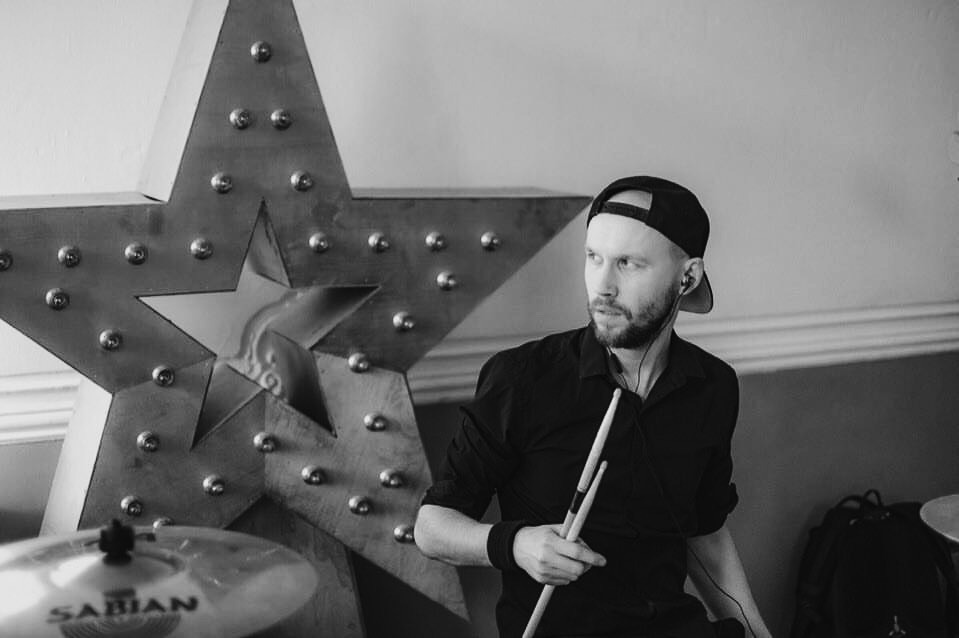
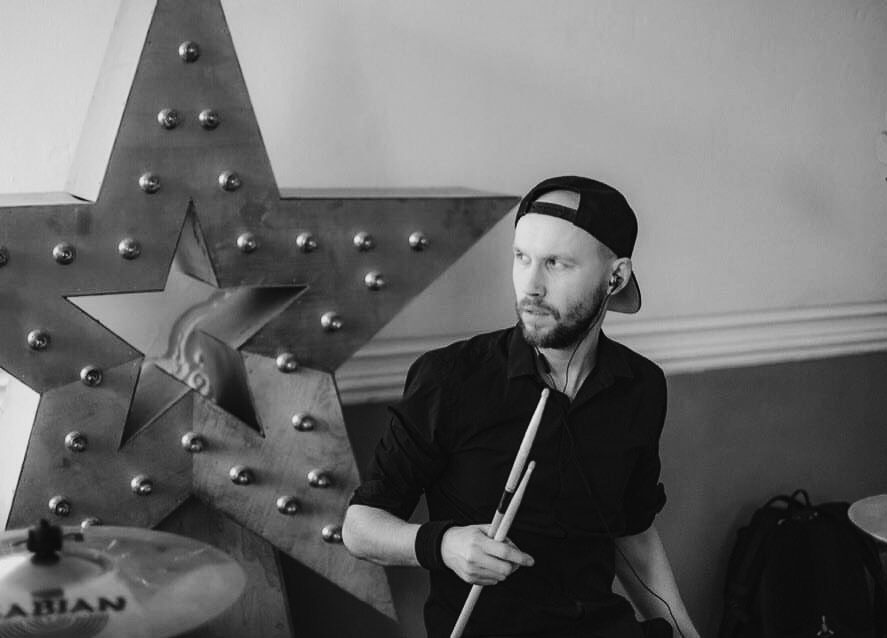
растянутые картинки

diff --git a/css/style.min.css b/css/style.min.css
@@ -1,1 +1,1 @@
-@font-face{font-family:'lato_regular';src:url(../fonts/Lato-Regular.eot);src:url(../fonts/Lato-Regular.eot?iefix) format('eot'),url(../fonts/Lato-Regular.woff) format('woff'),url(../fonts/Lato-Regular.ttf) format('truetype'),url(../fonts/Lato-Regular.svg#webfont) format('svg')}@font-face{font-family:'lato_light';src:url(../fonts/Lato-Light.eot);src:url(../fonts/Lato-Light.eot?iefix) format('eot'),url(../fonts/Lato-Light.woff) format('woff'),url(../fonts/Lato-Light.ttf) format('truetype'),url(../fonts/Lato-Light.svg#webfont) format('svg')}@font-face{font-family:'lato_bold';src:url(../fonts/Lato-Bold.eot);src:url(../fonts/Lato-Bold.eot?iefix) format('eot'),url(../fonts/Lato-Bold.woff) format('woff'),url(../fonts/Lato-Bold.ttf) format('truetype'),url(../fonts/Lato-Bold.svg#webfont) format('svg')}@font-face{font-family:'lato_semi';src:url(../fonts/Lato-Semibold.eot);src:url(../fonts/Lato-Semibold.eot?iefix) format('eot'),url(../fonts/Lato-Semibold.woff) format('woff'),url(../fonts/Lato-Semibold.ttf) format('truetype'),url(../fonts/Lato-Semibold.svg#webfont) format('svg')}body{font-family:'lato_regular';padding:0;background:#f6f6f6;font-size:18px}body.no-scroll{width:100%;height:100%;position:fixed;overflow:hidden}@media (max-width:767px){body{font-size:15px}}body,p,ul{margin:0}p{line-height:35px}@media (max-width:767px){p{line-height:30px}}@media (max-width:450px){p{line-height:25px}}a{text-decoration:none;color:inherit}ul{list-style:none;padding:0}input{-webkit-box-sizing:border-box;box-sizing:border-box}h2{font-family:'lato_bold';margin-top:0;margin-bottom:50px;font-size:80px}@media (max-width:1200px){h2{font-size:70px;margin-bottom:40px}}@media (max-width:1024px){h2{font-size:60px;margin-bottom:30px}}@media (max-width:767px){h2{font-size:50px;margin-bottom:20px}}@media (max-width:450px){h2{font-size:35px;margin-bottom:10px}}h3{font-size:25px;margin-bottom:10px;color:#fff}.main-wrapper{margin:0 80px;overflow:hidden;position:relative}@media (max-width:450px){.main-wrapper{margin:0 50px}}@media (max-width:320px){.main-wrapper{margin:0}}.logo-wrapper{width:100%;height:100vh;top:0;left:0;display:-webkit-box;display:-ms-flexbox;display:flex;-webkit-box-align:center;-ms-flex-align:center;align-items:center;-ms-flex-line-pack:center;align-content:center;-webkit-box-pack:center;-ms-flex-pack:center;justify-content:center;overflow:auto;position:absolute}.logo{margin:0 auto;height:auto;text-align:center;width:50%}@media (max-width:1024px){.logo{width:65%}}@media (max-width:450px){.logo{width:320px}}.logo .logo-descr{font-family:'lato_light';color:#f39305;font-size:30px;letter-spacing:10px;text-transform:uppercase}@media (max-width:1024px){.logo .logo-descr{font-size:30px;margin:0;letter-spacing:6px}}@media (max-width:767px){.logo .logo-descr{font-size:20px;letter-spacing:5px}}@media (max-width:450px){.logo .logo-descr{font-size:13px;letter-spacing:3px}}.navigation{z-index:10;position:fixed;top:0;right:auto;left:0;bottom:0;height:100%;width:80px;background:#101010}@media (max-width:450px){.navigation{width:50px}}@media (max-width:320px){.navigation{width:250px;bottom:auto;height:auto}}.menu-background,.navigation .navigation-list{position:absolute;left:0;right:0;bottom:50px}@media (max-width:320px){.navigation .navigation-list{bottom:auto;display:none}}.navigation .navigation-list ul{display:-webkit-box;display:-ms-flexbox;display:flex;-webkit-box-orient:horizontal;-webkit-box-direction:reverse;-ms-flex-direction:row-reverse;flex-direction:row-reverse;-ms-flex-wrap:nowrap;flex-wrap:nowrap;background:#101010;z-index:1;line-height:30px;list-style:none;padding-left:20px;position:absolute;bottom:0;left:100%;text-transform:uppercase;-webkit-transform-origin:bottom left;transform-origin:bottom left;-webkit-transform:rotate(-90deg);transform:rotate(-90deg)}@media (max-width:1024px){.navigation .navigation-list ul{padding-left:10px}}@media (max-width:320px){.navigation .navigation-list ul{-webkit-box-orient:vertical;-webkit-box-direction:normal;-ms-flex-direction:column;flex-direction:column;-ms-flex-wrap:wrap;flex-wrap:wrap;-webkit-box-align:center;-ms-flex-align:center;align-items:center;position:static;-webkit-transform:none;transform:none;padding-top:40px}}.navigation .navigation-list ul li,.social-navigation nav ul li{display:inline-block;vertical-align:middle;-webkit-box-flex:0;-ms-flex:0 0 auto;flex:0 0 auto;white-space:nowrap}.navigation .navigation-list ul li a{display:block;color:#fff;font-size:14px;letter-spacing:.1em;overflow:hidden;padding:25px 20px;position:relative;-webkit-transition:.3s ease-in-out;transition:.3s ease-in-out}@media (max-width:1024px){.navigation .navigation-list ul li a{padding:25px 10px}}@media (max-width:450px){.navigation .navigation-list ul li a{padding:10px 7px;font-size:11px}}@media (max-width:320px){.navigation .navigation-list ul li a{font-size:15px}}.navigation .navigation-list ul li a:after{content:"";display:block;position:absolute;height:2px;background:#101010;right:0;left:0;top:auto;bottom:0;width:50px;margin:auto;-webkit-transition:.3s ease-in-out;transition:.3s ease-in-out}.navigation .navigation-list ul li a:hover:after,.social-navigation nav ul li a:hover:after{background:#fff}.navigation .hand{top:0;left:0}@media (max-width:320px){.navigation .hand{display:none}}.menu-background{display:none;top:0;bottom:0;background:rgba(0,0,0,.5);z-index:1}.burger-icon{display:none}@media (max-width:320px){.burger-icon{display:block;position:absolute;top:20px;left:20px;width:50px;height:50px;z-index:10}}.burger-icon div{width:100%;height:2px;background:#f39305;position:absolute}.burger-icon div:nth-child(2){top:12px}.burger-icon div:nth-child(4){top:24px}.burger-icon.open{z-index:11;left:260px}.burger-icon.open div:nth-child(1),.burger-icon.open div:nth-child(4){top:18px;width:0;left:50%}.burger-icon.open div:nth-child(2){-webkit-transform:rotate(45deg);transform:rotate(45deg);top:10px}.burger-icon.open div:nth-child(3){-webkit-transform:rotate(-45deg);transform:rotate(-45deg);top:10px}.social-navigation{z-index:10;position:fixed;top:0;right:0;left:auto;bottom:0;height:100%;width:80px;background:#101010}@media (max-width:450px){.social-navigation{width:50px}}@media (max-width:320px){.social-navigation{top:290px;width:250px;left:0;bottom:0;height:auto;display:none;-webkit-box-pack:center;-ms-flex-pack:center;justify-content:center;-webkit-box-align:end;-ms-flex-align:end;align-items:flex-end}}.social-navigation nav{position:absolute;left:0;right:0;bottom:45px}@media (max-width:450px){.social-navigation nav{bottom:20px}}@media (max-width:320px){.social-navigation nav{position:static;padding:40px 0}}.hand,.social-navigation nav ul{display:-webkit-box;display:-ms-flexbox;display:flex}.social-navigation nav ul{background:#101010;z-index:1;-ms-flex-wrap:nowrap;flex-wrap:nowrap;line-height:30px;list-style:none;padding-left:20px;bottom:0;left:100%;text-transform:uppercase;-webkit-transform-origin:bottom left;transform-origin:bottom left;-webkit-transform:rotate(-90deg);transform:rotate(-90deg);-webkit-box-orient:horizontal;-webkit-box-direction:reverse;-ms-flex-direction:row-reverse;flex-direction:row-reverse;position:absolute}@media (max-width:1024px){.social-navigation nav ul{padding-left:10px}}@media (max-width:320px){.social-navigation nav ul{position:static;bottom:auto;-webkit-transform:none;transform:none;-webkit-box-orient:horizontal;-webkit-box-direction:normal;-ms-flex-direction:row;flex-direction:row;-webkit-box-pack:center;-ms-flex-pack:center;justify-content:center}}.social-navigation nav ul li a{display:block;color:#fff;font-size:14px;letter-spacing:.1em;overflow:hidden;padding:25px 20px;position:relative;-webkit-transition:font-weight 300ms ease-in-out;transition:font-weight 300ms ease-in-out}@media (max-width:1024px){.social-navigation nav ul li a{padding:25px 10px}}@media (max-width:450px){.social-navigation nav ul li a{padding:10px 8px;font-size:11px}}@media (max-width:320px){.social-navigation nav ul li a{padding:0;width:30px;height:30px}}.social-navigation nav ul li a:after{content:"";display:block;position:absolute;height:2px;background:#101010;right:0;left:0;top:0;bottom:auto;width:50px;margin:auto;-webkit-transition:.3s ease-in-out;transition:.3s ease-in-out}@media (max-width:320px){.social-navigation nav ul li a:after{display:none}}@media (max-width:320px){.social-navigation nav ul li .social-icon{background-size:100%;background-repeat:no-repeat;margin-right:20px}.social-navigation nav ul li .vk{background-image:url(../img/vk-social-logotype.svg)}.social-navigation nav ul li .instagram{background-image:url(../img/instagram-logo.svg)}.social-navigation nav ul li .youtube{background-image:url(../img/youtube.svg)}.social-navigation nav ul li .facebook{background-image:url(../img/facebook-logo-button.svg);margin-right:0}.social-navigation nav ul li span{display:none}}.hand{margin-top:30px;position:relative;-webkit-box-orient:vertical;-webkit-box-direction:normal;-ms-flex-direction:column;flex-direction:column;-webkit-box-align:center;-ms-flex-align:center;align-items:center;color:#f39305}@media (max-width:450px){.hand{top:0;left:0;margin-top:10px}}@media (max-width:320px){.hand{display:none}}.hand::before{content:"";display:block;width:20px;height:20px;margin-bottom:10px;background:url(../img/drumsticks.svg);background-size:100%}.decorative-line{position:absolute;left:40px;top:100px;height:450px;width:1px;background:#fff}@media (max-width:450px){.decorative-line{left:25px;top:65px;height:300px}}@media (max-width:320px){.decorative-line{display:none}}.monkey{position:absolute;width:40px;height:40px;background:url(../img/gorilla-gray.svg);background-size:100%;left:25px;bottom:10px}@media (max-width:450px){.monkey{left:10px}}.aboutme{display:-webkit-box;display:-ms-flexbox;display:flex;padding:150px;-webkit-box-align:center;-ms-flex-align:center;align-items:center}@media (max-width:1200px){.aboutme{-webkit-box-orient:vertical;-webkit-box-direction:normal;-ms-flex-direction:column;flex-direction:column}}@media (max-width:767px){.aboutme{padding:50px}}@media (max-width:450px){.aboutme{padding:60px 20px}}.aboutme .photo-part{margin-right:100px;width:50%}@media (max-width:1200px){.aboutme .photo-part{margin-bottom:50px;margin-right:0;width:auto}}@media (max-width:450px){.aboutme .photo-part{margin-bottom:20px}}.aboutme .photo-part img,.slider-item img{width:100%}.aboutme .text-part{width:50%}@media (max-width:1200px){.aboutme .text-part{width:auto}}.training{background:#fff;display:-webkit-box;display:-ms-flexbox;display:flex;padding:150px;-webkit-box-pack:center;-ms-flex-pack:center;justify-content:center}@media (max-width:767px){.training{padding:50px}}@media (max-width:450px){.training{padding:60px 20px}}.training h2,.training ul li{text-align:center}@media (max-width:450px){.training h2{text-align:left}}.training ul{margin-top:60px;-ms-flex-wrap:wrap;flex-wrap:wrap}@media (max-width:450px){.training ul{margin-top:20px}}.training ul li{width:33.333%;margin-bottom:40px}@media (max-width:767px){.training ul li{width:50%}}.big-background-container{overflow:hidden;z-index:-100;position:relative;height:100vh;width:100vw}.big-background-container video{position:absolute;top:0;left:50%;-webkit-transform:translate(-50%);transform:translate(-50%)}.gallery,.gallery-link,.training ul{display:-webkit-box;display:-ms-flexbox;display:flex}.gallery{-ms-flex-wrap:wrap;flex-wrap:wrap}.gallery-link{width:33.33%;height:auto;overflow:hidden}@media (max-width:767px){.gallery-link{width:50%}}@media (max-width:450px){.gallery-link{width:auto}}.gallery a img{width:100%;height:auto}.video-slider{height:100vh;margin-bottom:30px}.slider-item{display:inline-block}.contacts{display:-webkit-box;display:-ms-flexbox;display:flex;padding:150px}@media (max-width:1200px){.contacts{-webkit-box-orient:vertical;-webkit-box-direction:normal;-ms-flex-direction:column;flex-direction:column}}@media (max-width:767px){.contacts{padding:50px}}@media (max-width:450px){.contacts{padding:60px 20px}}.contact-info{margin-bottom:70px}@media (min-width:1024px){.contact-info{margin-bottom:0;margin-right:100px}}@media (min-width:450px){.contact-info{margin-bottom:20px}}.contact-form{width:100%}.contact-info span{font-family:'lato_bold'}.contact-form input{font-size:18px;color:#101010;font-family:'lato_regular';display:block;height:60px;margin-bottom:40px;border:0;background:#f6f6f6;border-bottom:2px solid #101010;width:100%}@media (max-width:450px){.contact-form input{margin-bottom:20px;font-size:15px;height:40px}}.contact-form input:nth-child(3){margin-bottom:90px}@media (max-width:450px){.contact-form input:nth-child(3){margin-bottom:50px}}::-webkit-input-placeholder{opacity:.4;font-size:18px;color:#101010;font-family:'lato_regular'}@media (max-width:450px){::-webkit-input-placeholder{font-size:15px}}::-moz-placeholder{opacity:.4;font-size:18px;color:#101010;font-family:'lato_regular'}@media (max-width:450px){::-moz-placeholder{font-size:15px}}:-ms-input-placeholder{opacity:.4;font-size:18px;color:#101010;font-family:'lato_regular'}@media (max-width:450px){:-ms-input-placeholder{font-size:15px}}:-moz-placeholder{opacity:.4;font-size:18px;color:#101010;font-family:'lato_regular'}@media (max-width:450px){:-moz-placeholder{font-size:15px}}.button,.button:hover{-webkit-transition:.3s;transition:.3s}.button{font-family:'lato_regular';cursor:pointer;font-size:24px;display:block;width:100%;background:#101010;border:2px solid #101010;padding:20px 0;color:#fff}@media (max-width:450px){.button{padding:10px 0;font-size:18px}}.button:hover{background:0 0;color:#101010}.video{display:grid;grid-template-areas:"a b c" "a d d";grid-template-rows:300px 1fr 70px;grid-auto-columns:20% 1fr 15%;grid-gap:10px;height:100vh;margin:0;background:#fff}@media (max-width:450px){.video{display:block;height:auto}}@media (max-width:767px){.video{grid-template-areas:"a b" "c d"}}.video-item{background-size:cover;background-position:center;background-repeat:no-repeat;display:-webkit-box;display:-ms-flexbox;display:flex;-webkit-box-pack:center;-ms-flex-pack:center;justify-content:center}.video-button{font-family:'lato_semi';display:block;padding:10px 20px;color:#f39305;border:1px solid #f39305;position:relative}.video-button:before,.video-button:hover{-webkit-transition-timing-function:linear;transition-timing-function:linear;-webkit-transition-duration:.2s;transition-duration:.2s}.video-button:hover{color:#fff;background-color:#f39305;border-color:#f39305;-webkit-box-shadow:7px 7px rgba(243,147,5,.5);box-shadow:7px 7px rgba(243,147,5,.5)}.video-button:before{content:"";position:absolute;top:0;left:0;width:100%;height:100%;-webkit-transform:translate(0,0);transform:translate(0,0);border:1px solid #f39305;opacity:0}.video-button:hover:before{opacity:1;-webkit-transform:translate(-7px,-7px);transform:translate(-7px,-7px)}.video-item1{grid-area:a;background-image:url(../img/1.jpg)}.video-item2{grid-area:b;background-image:url(../img/2.jpg)}.video-item3{grid-area:c;background-image:url(../img/3.jpg)}.video-item4{grid-area:d;background-image:url(../img/4.jpg)}.gallery-popup,.video-content{-webkit-box-align:center;-ms-flex-align:center;align-items:center;-webkit-box-pack:center;-ms-flex-pack:center;justify-content:center}.video-content{display:-webkit-box;display:-ms-flexbox;display:flex;-webkit-box-orient:vertical;-webkit-box-direction:normal;-ms-flex-direction:column;flex-direction:column;text-align:center;padding:10px}.video-content span{color:#fff;margin-bottom:20px}@media (max-width:450px){.video-content span{padding:20px}}.gallery-popup{display:none;vertical-align:middle;position:fixed;top:0;left:0;right:0;bottom:0;background-color:rgba(1,1,1,.8);z-index:100}.close-gallery{height:50px;width:50px;position:absolute;top:50px;right:50px;background:0 0;border:0;cursor:pointer}.close-gallery:after,.close-gallery:before{-webkit-transform:rotate(-45deg);transform:rotate(-45deg);content:'';position:absolute;top:50%;left:50%;margin-top:-5px;margin-left:-25px;display:block;height:5px;width:50px;background-color:#fff;-webkit-transition:all .25s ease-out;transition:all .25s ease-out}.close-gallery:after{-webkit-transform:rotate(-135deg);transform:rotate(-135deg)}.close-gallery:hover:after,.close-gallery:hover:before{-webkit-transform:rotate(0deg);transform:rotate(0deg)}
+@font-face{font-family:'lato_regular';src:url(../fonts/Lato-Regular.eot);src:url(../fonts/Lato-Regular.eot?iefix) format('eot'),url(../fonts/Lato-Regular.woff) format('woff'),url(../fonts/Lato-Regular.ttf) format('truetype'),url(../fonts/Lato-Regular.svg#webfont) format('svg')}@font-face{font-family:'lato_light';src:url(../fonts/Lato-Light.eot);src:url(../fonts/Lato-Light.eot?iefix) format('eot'),url(../fonts/Lato-Light.woff) format('woff'),url(../fonts/Lato-Light.ttf) format('truetype'),url(../fonts/Lato-Light.svg#webfont) format('svg')}@font-face{font-family:'lato_bold';src:url(../fonts/Lato-Bold.eot);src:url(../fonts/Lato-Bold.eot?iefix) format('eot'),url(../fonts/Lato-Bold.woff) format('woff'),url(../fonts/Lato-Bold.ttf) format('truetype'),url(../fonts/Lato-Bold.svg#webfont) format('svg')}@font-face{font-family:'lato_semi';src:url(../fonts/Lato-Semibold.eot);src:url(../fonts/Lato-Semibold.eot?iefix) format('eot'),url(../fonts/Lato-Semibold.woff) format('woff'),url(../fonts/Lato-Semibold.ttf) format('truetype'),url(../fonts/Lato-Semibold.svg#webfont) format('svg')}body{font-family:'lato_regular';padding:0;background:#f6f6f6;font-size:18px}body.no-scroll{width:100%;height:100%;position:fixed;overflow:hidden}@media (max-width:767px){body{font-size:15px}}body,p,ul{margin:0}p{line-height:35px}@media (max-width:767px){p{line-height:30px}}@media (max-width:450px){p{line-height:25px}}a{text-decoration:none;color:inherit}ul{list-style:none;padding:0}input{-webkit-box-sizing:border-box;box-sizing:border-box}h2{font-family:'lato_bold';margin-top:0;margin-bottom:50px;font-size:80px}@media (max-width:1200px){h2{font-size:70px;margin-bottom:40px}}@media (max-width:1024px){h2{font-size:60px;margin-bottom:30px}}@media (max-width:767px){h2{font-size:50px;margin-bottom:20px}}@media (max-width:450px){h2{font-size:35px;margin-bottom:10px}}h3{font-size:25px;margin-bottom:10px;color:#fff}.main-wrapper{margin:0 80px;overflow:hidden;position:relative}@media (max-width:450px){.main-wrapper{margin:0 50px}}@media (max-width:320px){.main-wrapper{margin:0}}.logo-wrapper{width:100%;height:100vh;top:0;left:0;display:-webkit-box;display:-ms-flexbox;display:flex;-webkit-box-align:center;-ms-flex-align:center;align-items:center;-ms-flex-line-pack:center;align-content:center;-webkit-box-pack:center;-ms-flex-pack:center;justify-content:center;overflow:auto;position:absolute}.logo{margin:0 auto;height:auto;text-align:center;width:50%}@media (max-width:1024px){.logo{width:65%}}@media (max-width:450px){.logo{width:320px}}.logo .logo-descr{font-family:'lato_light';color:#f39305;font-size:30px;letter-spacing:10px;text-transform:uppercase}@media (max-width:1024px){.logo .logo-descr{font-size:30px;margin:0;letter-spacing:6px}}@media (max-width:767px){.logo .logo-descr{font-size:20px;letter-spacing:5px}}@media (max-width:450px){.logo .logo-descr{font-size:13px;letter-spacing:3px}}.navigation{z-index:10;position:fixed;top:0;right:auto;left:0;bottom:0;height:100%;width:80px;background:#101010}@media (max-width:450px){.navigation{width:50px}}@media (max-width:320px){.navigation{width:250px;bottom:auto;height:auto}}.menu-background,.navigation .navigation-list{position:absolute;left:0;right:0;bottom:50px}@media (max-width:320px){.navigation .navigation-list{bottom:auto;display:none}}.navigation .navigation-list ul{display:-webkit-box;display:-ms-flexbox;display:flex;-webkit-box-orient:horizontal;-webkit-box-direction:reverse;-ms-flex-direction:row-reverse;flex-direction:row-reverse;-ms-flex-wrap:nowrap;flex-wrap:nowrap;background:#101010;z-index:1;line-height:30px;list-style:none;padding-left:20px;position:absolute;bottom:0;left:100%;text-transform:uppercase;-webkit-transform-origin:bottom left;transform-origin:bottom left;-webkit-transform:rotate(-90deg);transform:rotate(-90deg)}@media (max-width:1024px){.navigation .navigation-list ul{padding-left:10px}}@media (max-width:320px){.navigation .navigation-list ul{-webkit-box-orient:vertical;-webkit-box-direction:normal;-ms-flex-direction:column;flex-direction:column;-ms-flex-wrap:wrap;flex-wrap:wrap;-webkit-box-align:center;-ms-flex-align:center;align-items:center;position:static;-webkit-transform:none;transform:none;padding-top:40px}}.navigation .navigation-list ul li,.social-navigation nav ul li{display:inline-block;vertical-align:middle;-webkit-box-flex:0;-ms-flex:0 0 auto;flex:0 0 auto;white-space:nowrap}.navigation .navigation-list ul li a{display:block;color:#fff;font-size:14px;letter-spacing:.1em;overflow:hidden;padding:25px 20px;position:relative;-webkit-transition:.3s ease-in-out;transition:.3s ease-in-out}@media (max-width:1024px){.navigation .navigation-list ul li a{padding:25px 10px}}@media (max-width:450px){.navigation .navigation-list ul li a{padding:10px 7px;font-size:11px}}@media (max-width:320px){.navigation .navigation-list ul li a{font-size:15px}}.navigation .navigation-list ul li a:after{content:"";display:block;position:absolute;height:2px;background:#101010;right:0;left:0;top:auto;bottom:0;width:50px;margin:auto;-webkit-transition:.3s ease-in-out;transition:.3s ease-in-out}.navigation .navigation-list ul li a:hover:after,.social-navigation nav ul li a:hover:after{background:#fff}.navigation .hand{top:0;left:0}@media (max-width:320px){.navigation .hand{display:none}}.menu-background{display:none;top:0;bottom:0;background:rgba(0,0,0,.5);z-index:1}.burger-icon{display:none}@media (max-width:320px){.burger-icon{display:block;position:absolute;top:20px;left:20px;width:50px;height:50px;z-index:10}}.burger-icon div{width:100%;height:2px;background:#f39305;position:absolute}.burger-icon div:nth-child(2){top:12px}.burger-icon div:nth-child(4){top:24px}.burger-icon.open{z-index:11;left:260px}.burger-icon.open div:nth-child(1),.burger-icon.open div:nth-child(4){top:18px;width:0;left:50%}.burger-icon.open div:nth-child(2){-webkit-transform:rotate(45deg);transform:rotate(45deg);top:10px}.burger-icon.open div:nth-child(3){-webkit-transform:rotate(-45deg);transform:rotate(-45deg);top:10px}.social-navigation{z-index:10;position:fixed;top:0;right:0;left:auto;bottom:0;height:100%;width:80px;background:#101010}@media (max-width:450px){.social-navigation{width:50px}}@media (max-width:320px){.social-navigation{top:290px;width:250px;left:0;bottom:0;height:auto;display:none;-webkit-box-pack:center;-ms-flex-pack:center;justify-content:center;-webkit-box-align:end;-ms-flex-align:end;align-items:flex-end}}.social-navigation nav{position:absolute;left:0;right:0;bottom:45px}@media (max-width:450px){.social-navigation nav{bottom:20px}}@media (max-width:320px){.social-navigation nav{position:static;padding:40px 0}}.hand,.social-navigation nav ul{display:-webkit-box;display:-ms-flexbox;display:flex}.social-navigation nav ul{background:#101010;z-index:1;-ms-flex-wrap:nowrap;flex-wrap:nowrap;line-height:30px;list-style:none;padding-left:20px;bottom:0;left:100%;text-transform:uppercase;-webkit-transform-origin:bottom left;transform-origin:bottom left;-webkit-transform:rotate(-90deg);transform:rotate(-90deg);-webkit-box-orient:horizontal;-webkit-box-direction:reverse;-ms-flex-direction:row-reverse;flex-direction:row-reverse;position:absolute}@media (max-width:1024px){.social-navigation nav ul{padding-left:10px}}@media (max-width:320px){.social-navigation nav ul{position:static;bottom:auto;-webkit-transform:none;transform:none;-webkit-box-orient:horizontal;-webkit-box-direction:normal;-ms-flex-direction:row;flex-direction:row;-webkit-box-pack:center;-ms-flex-pack:center;justify-content:center}}.social-navigation nav ul li a{display:block;color:#fff;font-size:14px;letter-spacing:.1em;overflow:hidden;padding:25px 20px;position:relative;-webkit-transition:font-weight 300ms ease-in-out;transition:font-weight 300ms ease-in-out}@media (max-width:1024px){.social-navigation nav ul li a{padding:25px 10px}}@media (max-width:450px){.social-navigation nav ul li a{padding:10px 8px;font-size:11px}}@media (max-width:320px){.social-navigation nav ul li a{padding:0;width:30px;height:30px}}.social-navigation nav ul li a:after{content:"";display:block;position:absolute;height:2px;background:#101010;right:0;left:0;top:0;bottom:auto;width:50px;margin:auto;-webkit-transition:.3s ease-in-out;transition:.3s ease-in-out}@media (max-width:320px){.social-navigation nav ul li a:after{display:none}}@media (max-width:320px){.social-navigation nav ul li .social-icon{background-size:100%;background-repeat:no-repeat;margin-right:20px}.social-navigation nav ul li .vk{background-image:url(../img/vk-social-logotype.svg)}.social-navigation nav ul li .instagram{background-image:url(../img/instagram-logo.svg)}.social-navigation nav ul li .youtube{background-image:url(../img/youtube.svg)}.social-navigation nav ul li .facebook{background-image:url(../img/facebook-logo-button.svg);margin-right:0}.social-navigation nav ul li span{display:none}}.hand{margin-top:30px;position:relative;-webkit-box-orient:vertical;-webkit-box-direction:normal;-ms-flex-direction:column;flex-direction:column;-webkit-box-align:center;-ms-flex-align:center;align-items:center;color:#f39305}@media (max-width:450px){.hand{top:0;left:0;margin-top:10px}}@media (max-width:320px){.hand{display:none}}.hand::before{content:"";display:block;width:20px;height:20px;margin-bottom:10px;background:url(../img/drumsticks.svg);background-size:100%}.decorative-line{position:absolute;left:40px;top:100px;height:450px;width:1px;background:#fff}@media (max-width:450px){.decorative-line{left:25px;top:65px;height:300px}}@media (max-width:320px){.decorative-line{display:none}}.monkey{position:absolute;width:40px;height:40px;background:url(../img/gorilla-gray.svg);background-size:100%;left:25px;bottom:10px}@media (max-width:450px){.monkey{left:10px}}.aboutme{display:-webkit-box;display:-ms-flexbox;display:flex;padding:150px;-webkit-box-align:center;-ms-flex-align:center;align-items:center}@media (max-width:1200px){.aboutme{-webkit-box-orient:vertical;-webkit-box-direction:normal;-ms-flex-direction:column;flex-direction:column}}@media (max-width:767px){.aboutme{padding:50px}}@media (max-width:450px){.aboutme{padding:60px 20px}}.aboutme .photo-part{margin-right:100px;width:50%}@media (max-width:1200px){.aboutme .photo-part{margin-bottom:50px;margin-right:0;width:auto}}@media (max-width:450px){.aboutme .photo-part{margin-bottom:20px}}.aboutme .photo-part img,.slider-item img{width:100%}.aboutme .text-part{width:50%}@media (max-width:1200px){.aboutme .text-part{width:auto}}.training,.training ul{display:-webkit-box;display:-ms-flexbox;display:flex}.training{background:#fff;padding:150px;-webkit-box-pack:center;-ms-flex-pack:center;justify-content:center}@media (max-width:767px){.training{padding:50px}}@media (max-width:450px){.training{padding:60px 20px}}.training h2,.training ul li{text-align:center}@media (max-width:450px){.training h2{text-align:left}}.training ul{margin-top:60px;-ms-flex-wrap:wrap;flex-wrap:wrap}@media (max-width:450px){.training ul{margin-top:20px}}.training ul li{width:33.333%;margin-bottom:40px}@media (max-width:767px){.training ul li{width:50%}}.big-background-container{overflow:hidden;z-index:-100;position:relative;height:100vh;width:100vw}@media (max-width:320px){.big-background-container{background-image:url(../img/mobile-bg.jpg);background-size:cover;background-position:center;background-repeat:no-repeat}}.big-background-container video{position:absolute;top:0;left:50%;-webkit-transform:translate(-50%);transform:translate(-50%)}@media (max-width:320px){.big-background-container video{display:none}}.gallery,.gallery-link{display:-webkit-box;display:-ms-flexbox;display:flex;-webkit-box-align:center;-ms-flex-align:center;align-items:center}.gallery{-ms-flex-wrap:wrap;flex-wrap:wrap}.gallery-link{width:33.33%;height:auto;overflow:hidden}@media (max-width:767px){.gallery-link{width:50%}}.gallery a img,.gallery-popup img{max-width:100%;height:auto}.video-slider{height:100vh;margin-bottom:30px}.slider-item{display:inline-block}.contacts{display:-webkit-box;display:-ms-flexbox;display:flex;padding:150px}@media (max-width:1200px){.contacts{-webkit-box-orient:vertical;-webkit-box-direction:normal;-ms-flex-direction:column;flex-direction:column}}@media (max-width:767px){.contacts{padding:50px}}@media (max-width:450px){.contacts{padding:60px 20px}}.contact-info{margin-bottom:70px}@media (min-width:1024px){.contact-info{margin-bottom:0;margin-right:100px}}@media (min-width:450px){.contact-info{margin-bottom:20px}}.contact-form{width:100%}.contact-info span{font-family:'lato_bold'}.contact-form input{font-size:18px;color:#101010;font-family:'lato_regular';display:block;height:60px;margin-bottom:40px;border:0;background:#f6f6f6;border-bottom:2px solid #101010;width:100%}@media (max-width:450px){.contact-form input{margin-bottom:20px;font-size:15px;height:40px}}.contact-form input:nth-child(3){margin-bottom:90px}@media (max-width:450px){.contact-form input:nth-child(3){margin-bottom:50px}}::-webkit-input-placeholder{opacity:.4;font-size:18px;color:#101010;font-family:'lato_regular'}@media (max-width:450px){::-webkit-input-placeholder{font-size:15px}}::-moz-placeholder{opacity:.4;font-size:18px;color:#101010;font-family:'lato_regular'}@media (max-width:450px){::-moz-placeholder{font-size:15px}}:-ms-input-placeholder{opacity:.4;font-size:18px;color:#101010;font-family:'lato_regular'}@media (max-width:450px){:-ms-input-placeholder{font-size:15px}}:-moz-placeholder{opacity:.4;font-size:18px;color:#101010;font-family:'lato_regular'}@media (max-width:450px){:-moz-placeholder{font-size:15px}}.button,.button:hover{-webkit-transition:.3s;transition:.3s}.button{font-family:'lato_regular';cursor:pointer;font-size:24px;display:block;width:100%;background:#101010;border:2px solid #101010;padding:20px 0;color:#fff}@media (max-width:450px){.button{padding:10px 0;font-size:18px}}.button:hover{background:0 0;color:#101010}.video{display:grid;grid-template-areas:"a b c" "a d d";grid-template-rows:300px 1fr 70px;grid-auto-columns:20% 1fr 15%;grid-gap:10px;height:100vh;margin:0;background:#fff}@media (max-width:450px){.video{display:block;height:auto}}@media (max-width:767px){.video{grid-template-areas:"a b" "c d"}}.video-item{background-size:cover;background-position:center;background-repeat:no-repeat;display:-webkit-box;display:-ms-flexbox;display:flex;-webkit-box-pack:center;-ms-flex-pack:center;justify-content:center}.video-button{font-family:'lato_semi';display:block;padding:10px 20px;color:#f39305;border:1px solid #f39305;position:relative}.video-button:before,.video-button:hover{-webkit-transition-timing-function:linear;transition-timing-function:linear;-webkit-transition-duration:.2s;transition-duration:.2s}.video-button:hover{color:#fff;background-color:#f39305;border-color:#f39305;-webkit-box-shadow:7px 7px rgba(243,147,5,.5);box-shadow:7px 7px rgba(243,147,5,.5)}.video-button:before{content:"";position:absolute;top:0;left:0;width:100%;height:100%;-webkit-transform:translate(0,0);transform:translate(0,0);border:1px solid #f39305;opacity:0}.video-button:hover:before{opacity:1;-webkit-transform:translate(-7px,-7px);transform:translate(-7px,-7px)}.video-item1{grid-area:a;background-image:url(../img/1.jpg)}.video-item2{grid-area:b;background-image:url(../img/2.jpg)}.video-item3{grid-area:c;background-image:url(../img/3.jpg)}.video-item4{grid-area:d;background-image:url(../img/4.jpg)}.gallery-popup,.video-content{-webkit-box-align:center;-ms-flex-align:center;align-items:center;-webkit-box-pack:center;-ms-flex-pack:center;justify-content:center}.video-content{display:-webkit-box;display:-ms-flexbox;display:flex;-webkit-box-orient:vertical;-webkit-box-direction:normal;-ms-flex-direction:column;flex-direction:column;text-align:center;padding:10px}.video-content span{color:#fff;margin-bottom:20px}@media (max-width:450px){.video-content span{padding:20px}}.gallery-popup{display:none;vertical-align:middle;position:fixed;top:0;left:0;right:0;bottom:0;background-color:rgba(1,1,1,.8);z-index:100}.close-gallery{height:50px;width:50px;position:absolute;top:50px;right:50px;background:0 0;border:0;cursor:pointer}.close-gallery:after,.close-gallery:before{-webkit-transform:rotate(-45deg);transform:rotate(-45deg);content:'';position:absolute;top:50%;left:50%;margin-top:-5px;margin-left:-25px;display:block;height:5px;width:50px;background-color:#fff;-webkit-transition:all .25s ease-out;transition:all .25s ease-out}.close-gallery:after{-webkit-transform:rotate(-135deg);transform:rotate(-135deg)}.close-gallery:hover:after,.close-gallery:hover:before{-webkit-transform:rotate(0deg);transform:rotate(0deg)}

diff --git a/css/style.css b/css/style.css
@@ -742,6 +742,14 @@ h3 {
   height: 100vh;
   width: 100vw;
 }
+@media (max-width: 320px) {
+  .big-background-container {
+    background-image: url("../img/mobile-bg.jpg");
+    background-size: cover;
+    background-position: center;
+    background-repeat: no-repeat;
+  }
+}
 .big-background-container video {
   position: absolute;
   top: 0;
@@ -749,12 +757,20 @@ h3 {
   -webkit-transform: translate(-50%);
           transform: translate(-50%);
 }
+@media (max-width: 320px) {
+  .big-background-container video {
+    display: none;
+  }
+}
 .gallery {
   display: -webkit-box;
   display: -ms-flexbox;
   display: flex;
   -ms-flex-wrap: wrap;
       flex-wrap: wrap;
+  -webkit-box-align: center;
+      -ms-flex-align: center;
+          align-items: center;
 }
 .gallery-link {
   display: -webkit-box;
@@ -763,21 +779,18 @@ h3 {
   width: 33.33%;
   height: auto;
   overflow: hidden;
-  align-items: center;
+  -webkit-box-align: center;
+      -ms-flex-align: center;
+          align-items: center;
 }
 @media (max-width: 767px) {
   .gallery-link {
     width: 50%;
   }
 }
-@media (max-width: 450px) {
-  .gallery-link {
-    width: auto;
-  }
-}
 .gallery a img {
-  width: 100%;
-  height: auto!important;
+  max-width: 100%;
+  height: auto;
 }
 .video-slider {
   height: 100vh;
@@ -1061,7 +1074,7 @@ h3 {
   z-index: 100;
 }
 .gallery-popup img {
-  width: 100%;
+  max-width: 100%;
   height: auto;
 }
 .close-gallery {

diff --git a/js/main.js b/js/main.js
@@ -89,13 +89,13 @@ toggleBurger.addEventListener('click', function(e) {
         navigation.style.display = 'none';
         socialNavigation.style.display = 'none';
         menuBG.style.display = 'none';
-        body.style.overflow = 'auto';
+        body.classList.remove('no-scroll');
     } else {
         toggleBurger.classList.add('open');
         navigation.style.display = 'block';
         socialNavigation.style.display = 'flex';
         menuBG.style.display = 'block';
-        body.style.overflow = 'hidden';
+        body.classList.add('no-scroll');
     }
 });
 
@@ -115,6 +115,6 @@ for (var i = 0; i < navigationItems.length; i++) {
         navigation.style.display = 'none';
         socialNavigation.style.display = 'none';
         menuBG.style.display = 'none';
-        body.classList.add('no-scroll');
+        body.classList.remove('no-scroll');
     })
 }

diff --git a/js/main.min.js b/js/main.min.js
@@ -89,7 +89,7 @@ toggleBurger.addEventListener('click', function(e) {
         navigation.style.display = 'none';
         socialNavigation.style.display = 'none';
         menuBG.style.display = 'none';
-        body.classList.add('no-scroll');
+        body.classList.remove('no-scroll');
     } else {
         toggleBurger.classList.add('open');
         navigation.style.display = 'block';

diff --git a/index.html b/index.html
@@ -4,7 +4,7 @@
     <meta charset="UTF-8">
     <meta name="viewport" content="width=device-width, initial-scale=1">
     <title>Барабанщик спб</title>
-    <link rel="stylesheet" href="css/style.css">
+    <link rel="stylesheet" href="css/style.min.css">
 </head>
 <body>
 <div class="main-wrapper">
